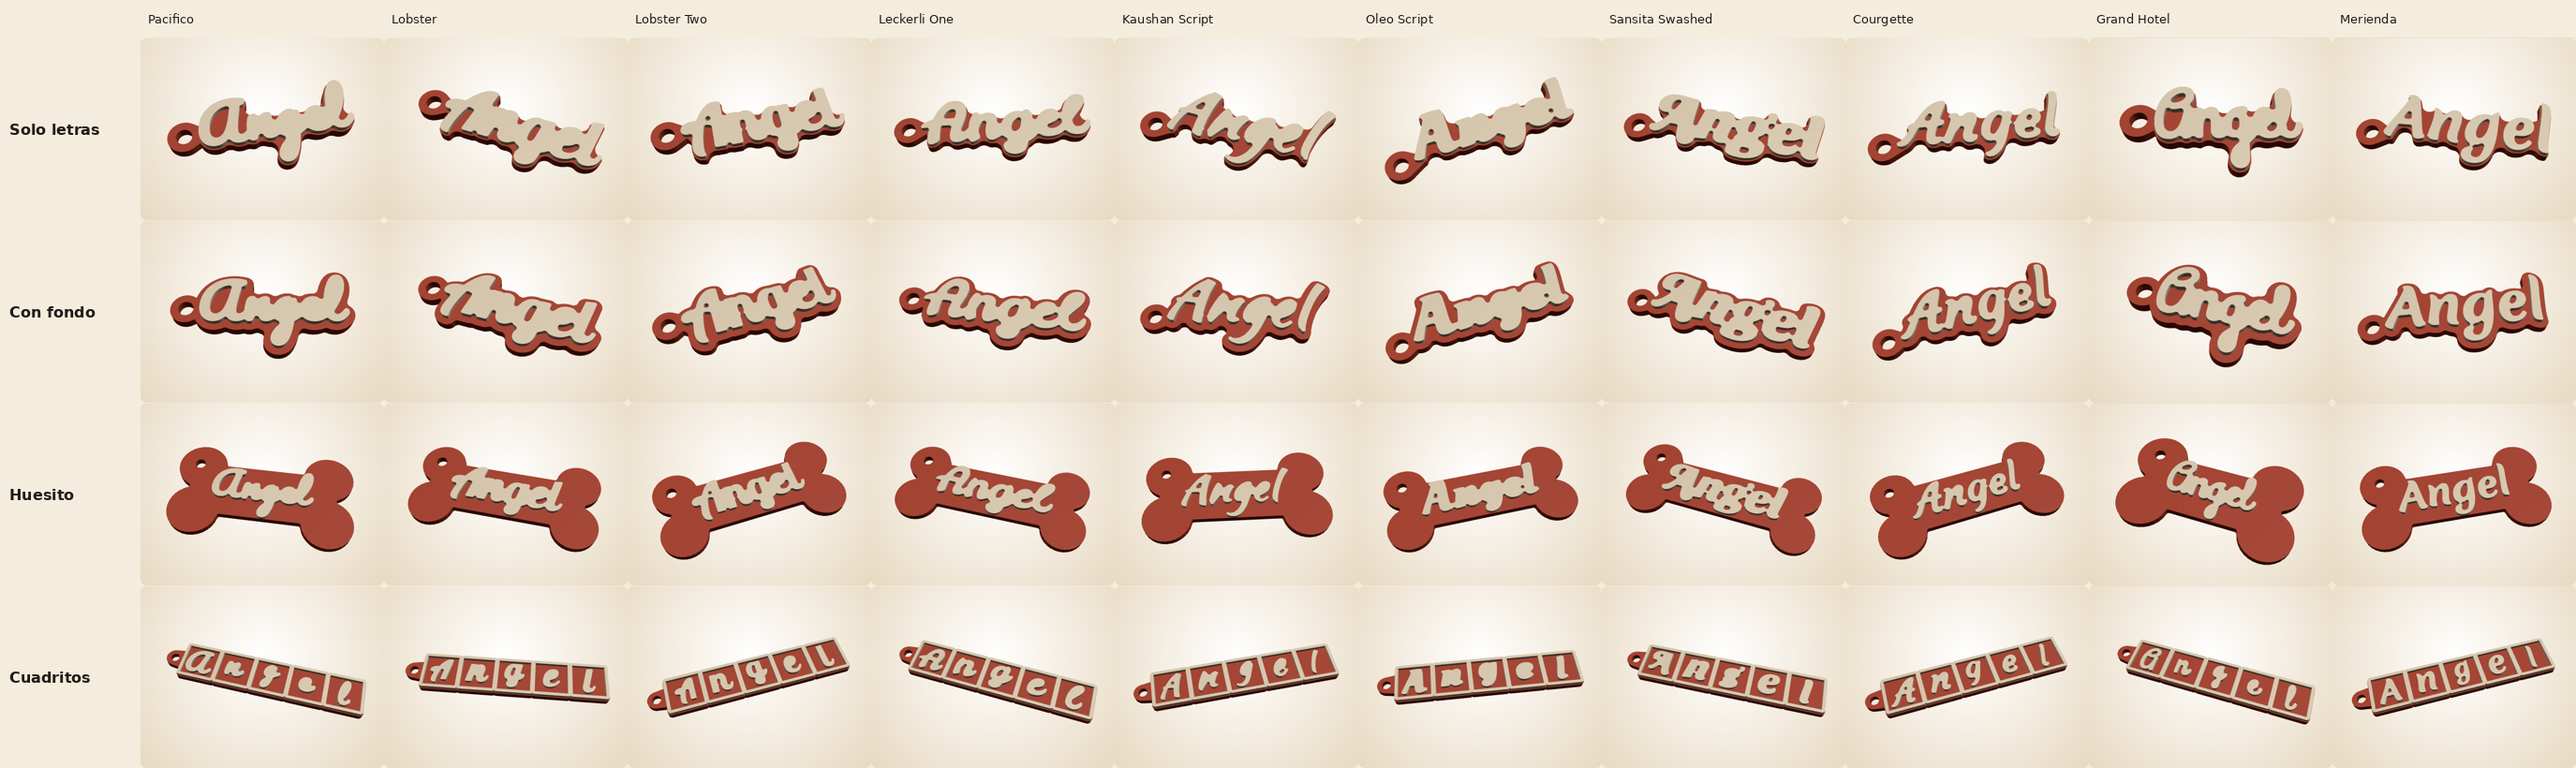
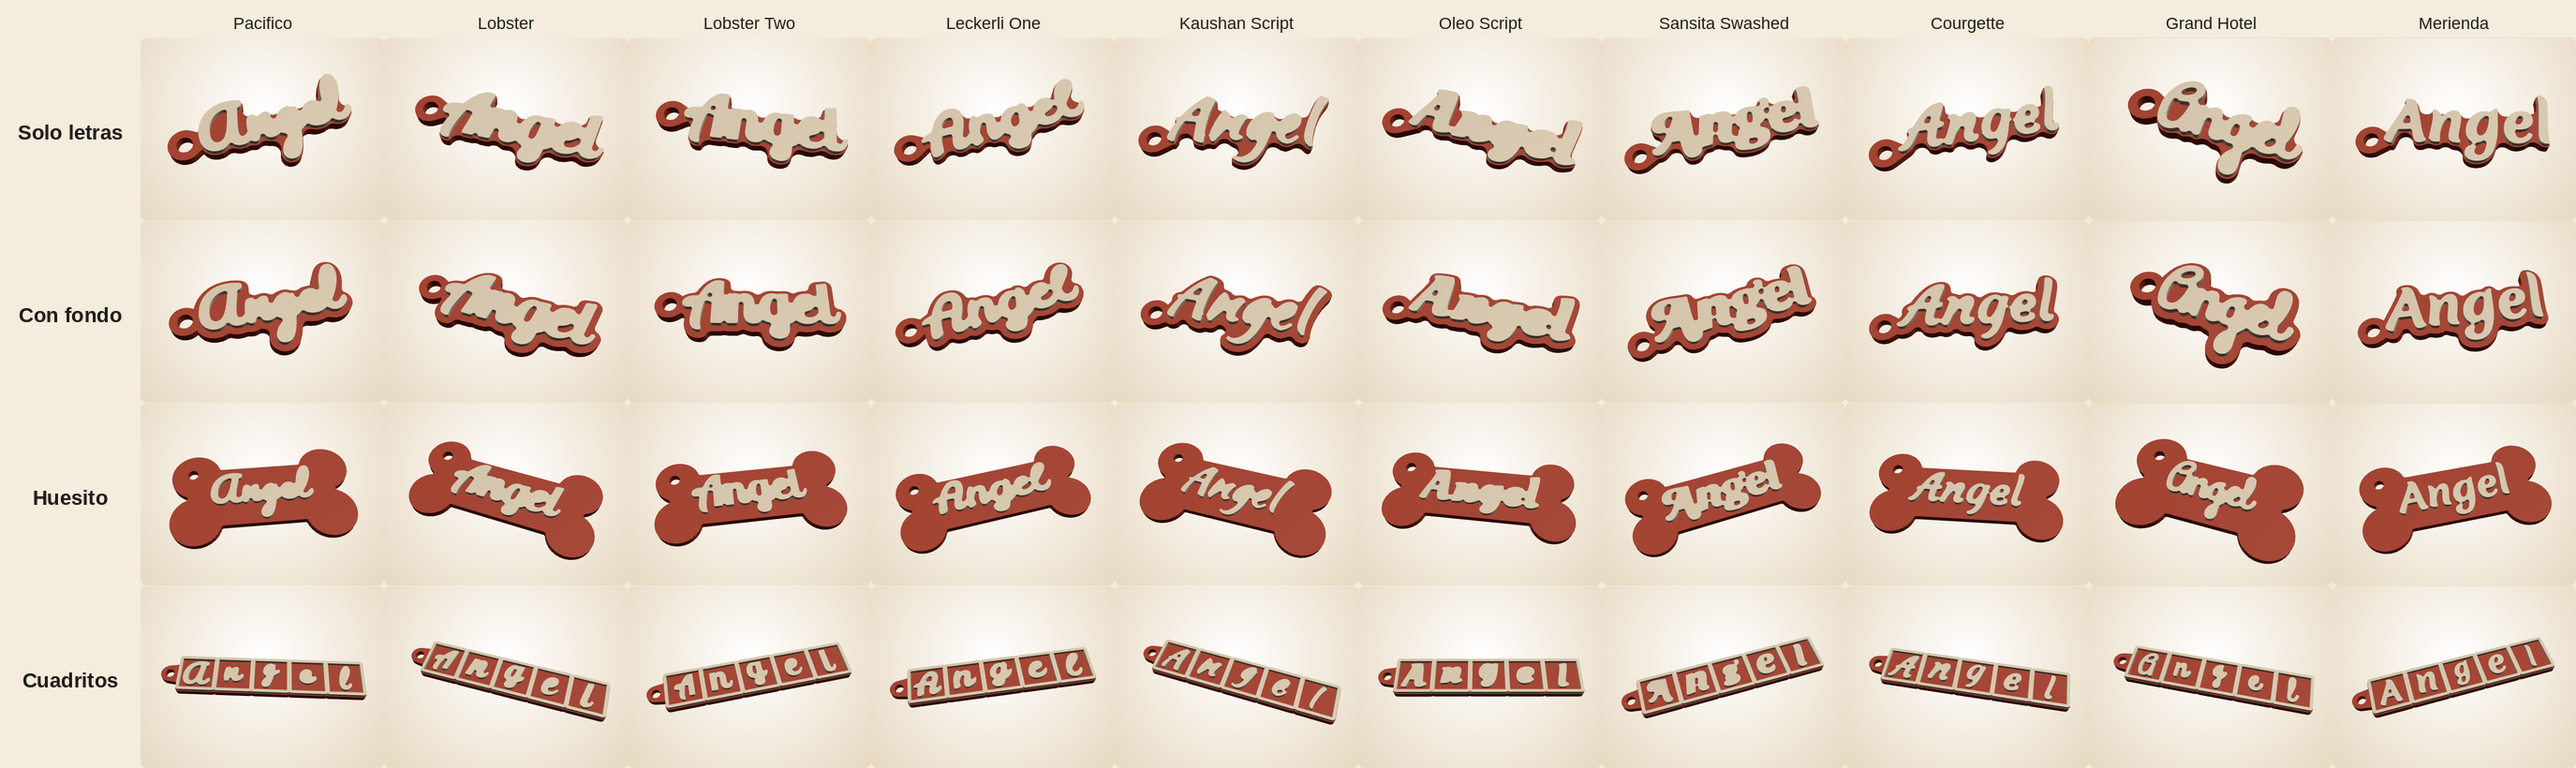
Llavero con tu nombre: 4 modelos, 10 estilos y stlqa completo (tope de 30 s)
La barra del huesito cubre tildes, virgulillas y descendentes con 1.6 mm de margen, para que nombres altos como Íñigo queden en una sola pieza cerrada. stlqa corre cada caso en un worker reutilizable; si se pasa de 30 s lo mata, anota la falla y sigue.

diff --git a/src/nombre3d.js b/src/nombre3d.js
@@ -171,7 +171,11 @@ function armar(w, fuente, nombre, modelo, m, escala) {
         // hueso: barra con margen alrededor del nombre y dos bolas en cada punta; el ojal va en la bola de arriba a la izquierda
         const mg = 3, x0 = lb.min[0] - mg, x1 = lb.max[0] + mg, y0 = lb.min[1] - mg, y1 = lb.max[1] + mg, h = y1 - y0, yc = (y0 + y1) / 2;
         const rb = Math.max(R + 1.2, h * 0.36), dy = h * 0.36, kx0 = x0 - rb * 0.3, kx1 = x1 + rb * 0.3;
-        const barra = G(G(CrossSection.square([x1 - x0, h * 0.8])).translate([x0, yc - h * 0.4]));
+        // la barra cubre tildes, virgulillas y descendentes con 1.6 mm de margen: el 80 % del alto
+        // no alcanza cuando el nombre es alto (p. ej. Íñigo con g), y un recorte fino deja triángulos degenerados
+        const cubre = 1.6;
+        const by0 = Math.min(yc - h * 0.4, lb.min[1] - cubre), by1 = Math.max(yc + h * 0.4, lb.max[1] + cubre);
+        const barra = G(G(CrossSection.square([x1 - x0, by1 - by0])).translate([x0, by0]));
         base = G(CrossSection.union([barra, circulo(rb, [kx0, yc + dy]), circulo(rb, [kx0, yc - dy]), circulo(rb, [kx1, yc + dy]), circulo(rb, [kx1, yc - dy])]));
         base = G(G(base.offset(1, 'Round', 2, seg)).offset(-1, 'Round', 2, seg)); // redondea la unión barra–bolas
         ojal = { cx: kx0 - rb * 0.15, cy: yc + dy + rb * 0.1 };
